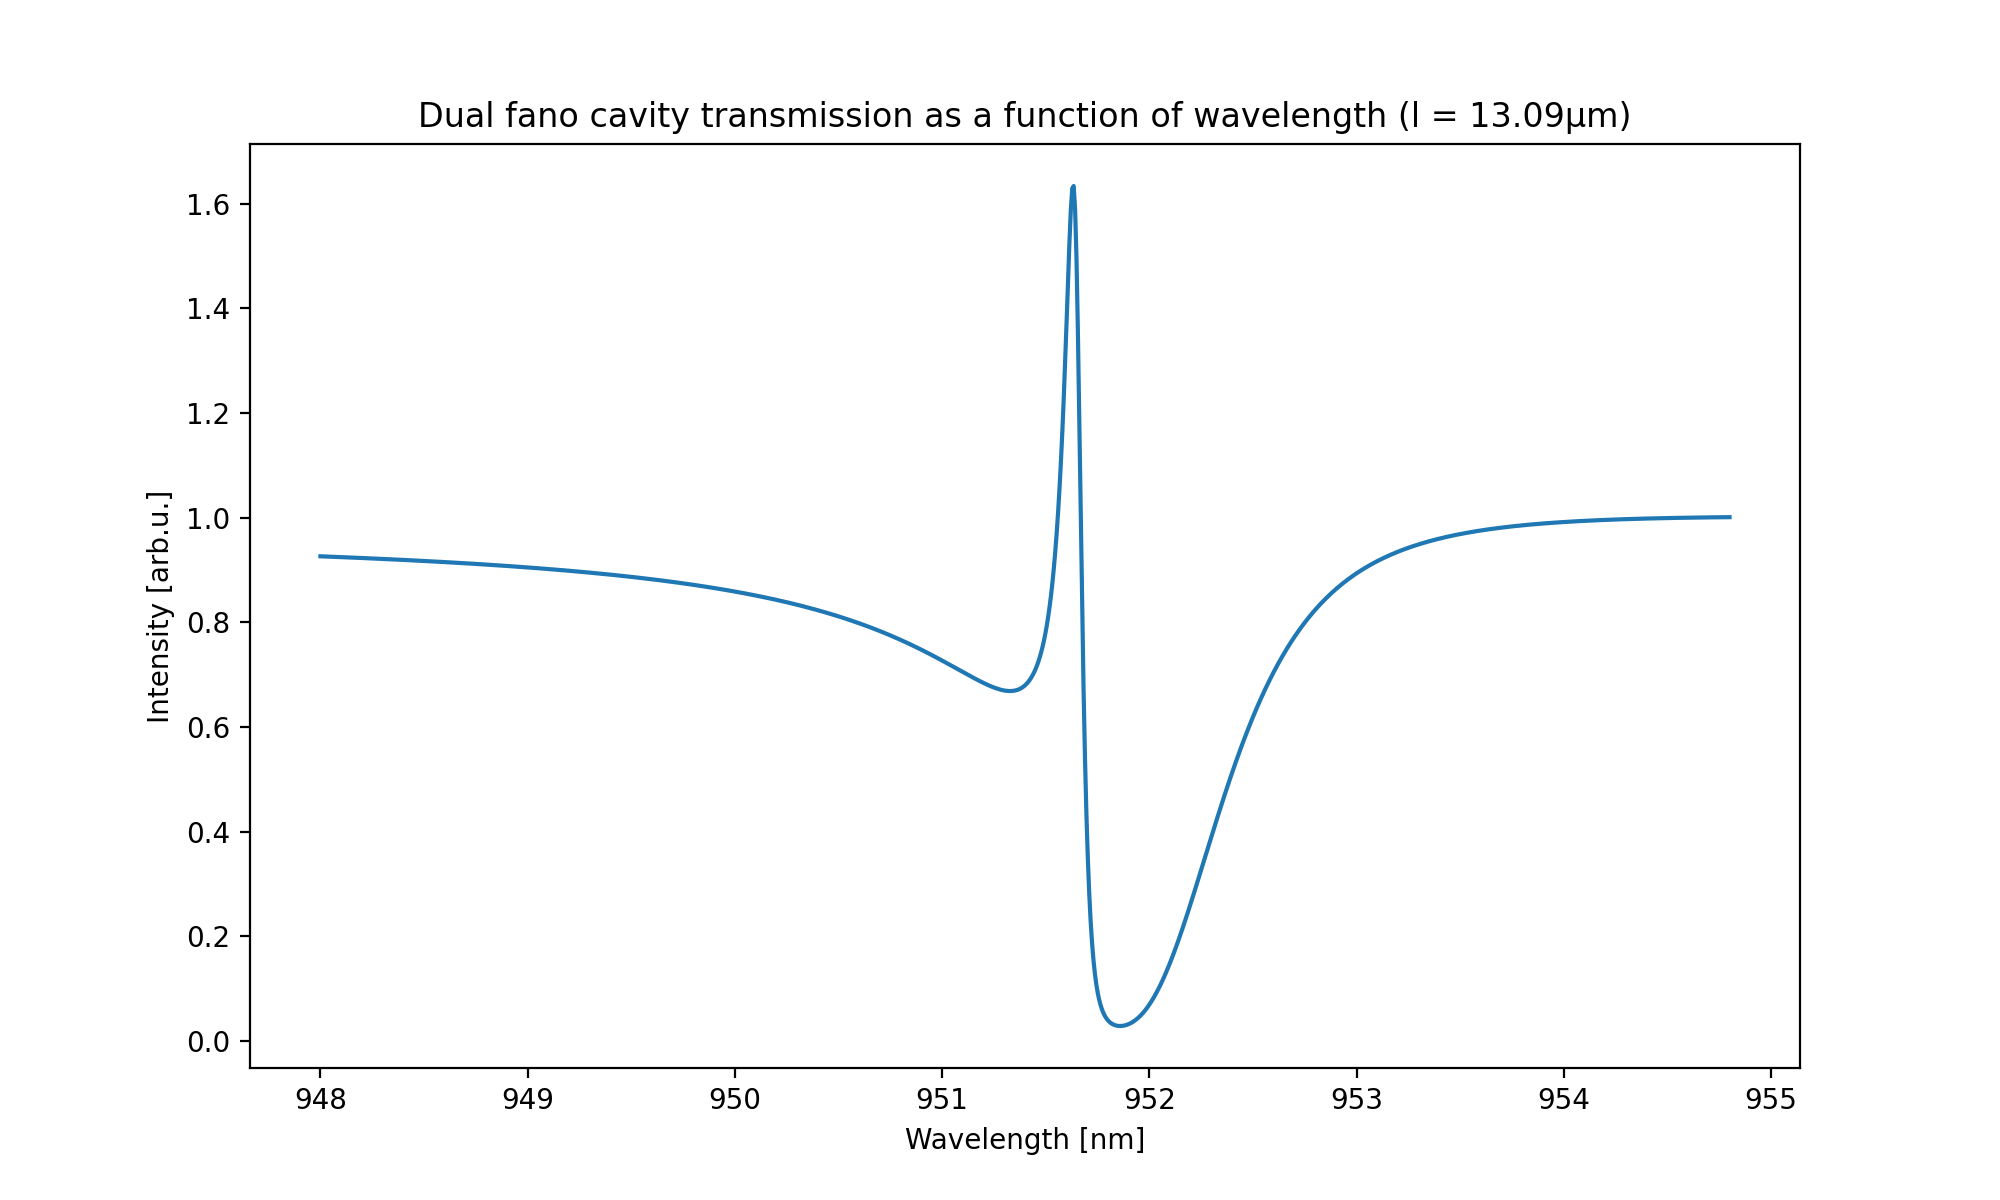
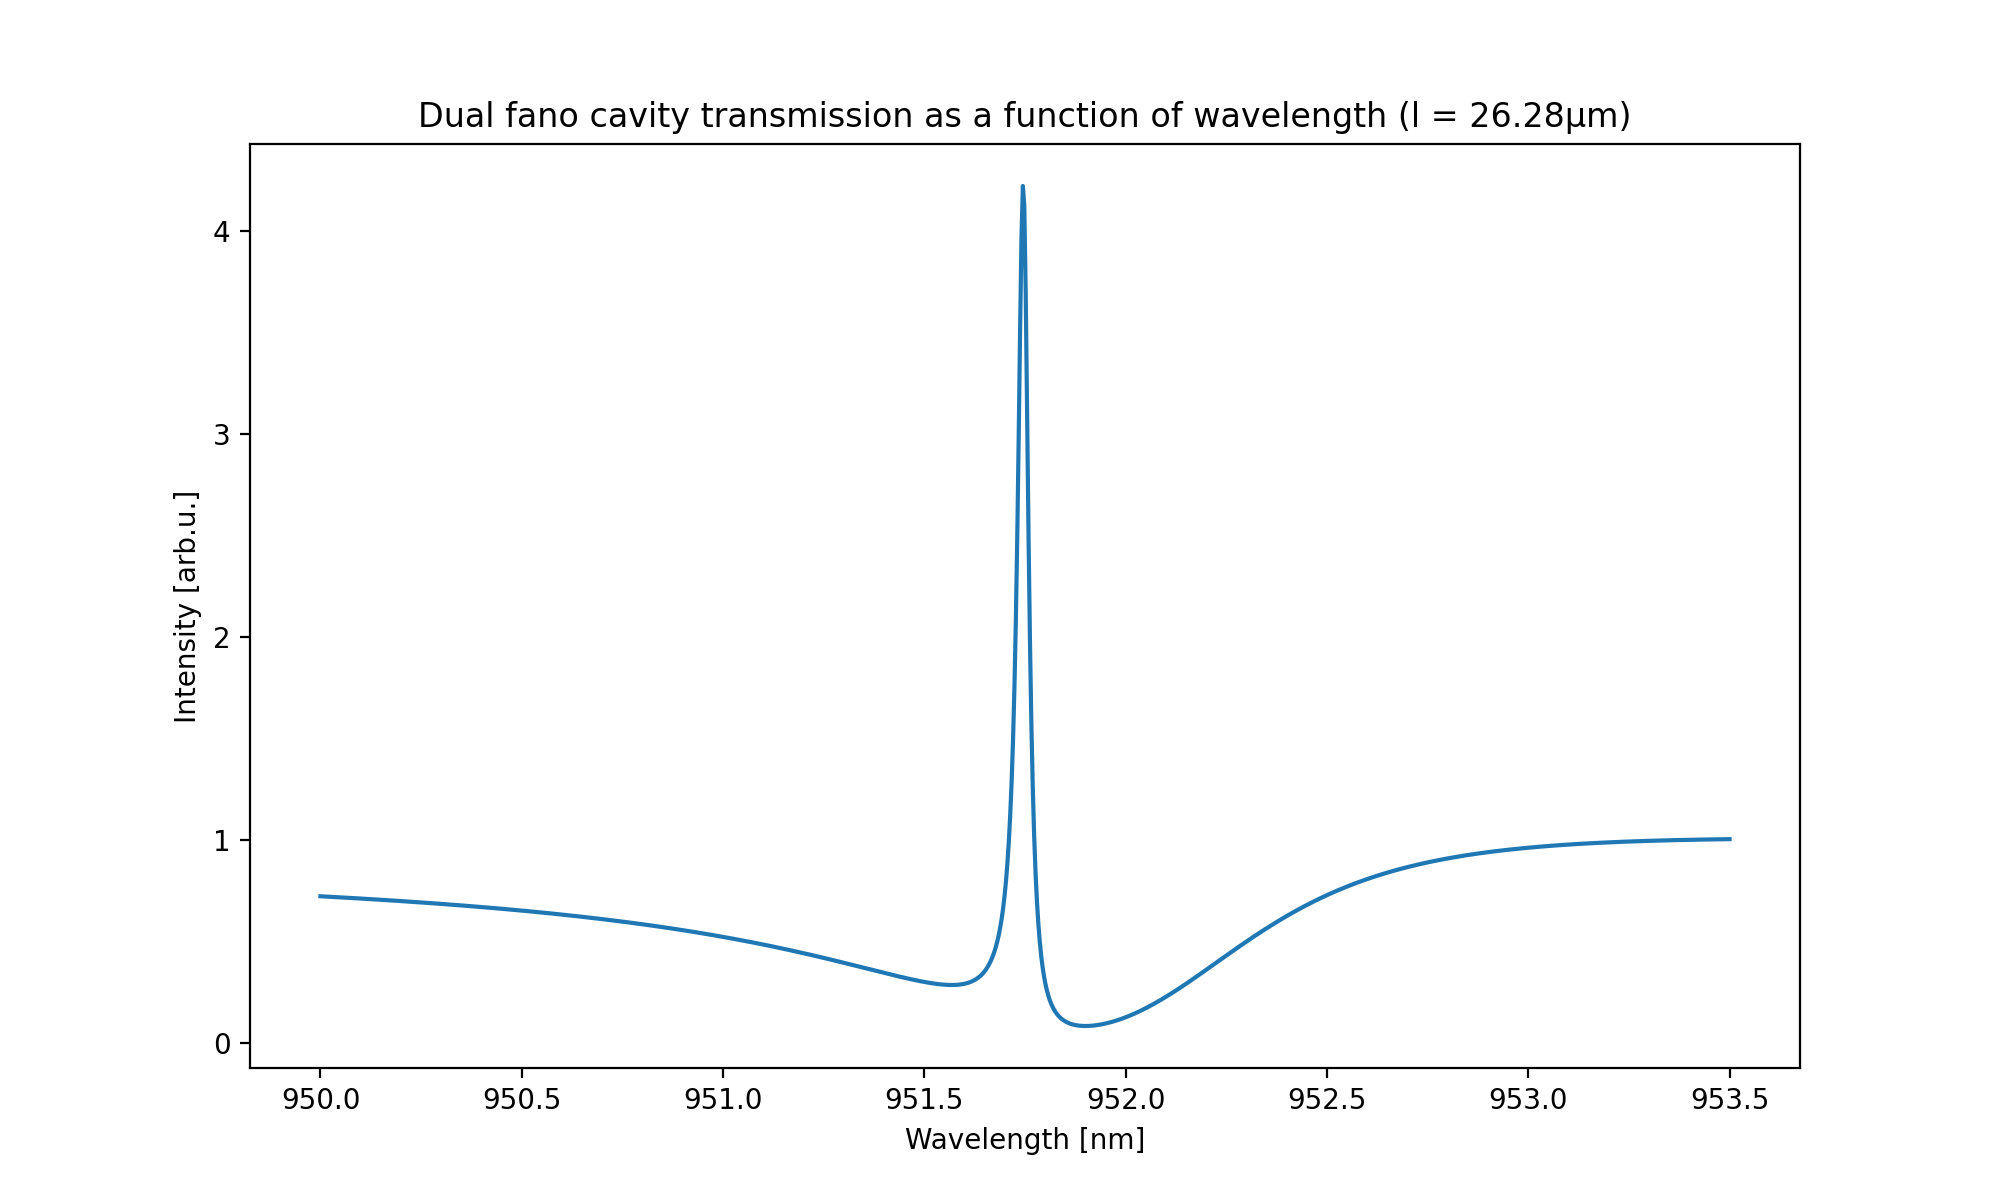
-

diff --git a/fano_theory.py b/fano_theory.py
@@ -12,9 +12,10 @@ M4 = fano("/Users/mikkelodeon/optomechanics/400um gratings/Data/M4/400_M4 trans.
 M5 = fano("/Users/mikkelodeon/optomechanics/400um gratings/Data/M5/400_M5 trans.txt")
 
 params1 = M3.lossy_fit([952,952,0.6,1,0.1])
-params2 = M5.lossy_fit([952,952,0.6,1,0.1])
-params2[1] = params2[1] 
-params2[0] = params2[0] 
+params2 = M3.lossy_fit([952,952,0.6,1,0.1])
+Δ = 0.03
+params2[1] = params2[1] + Δ
+params2[0] = params2[0] + Δ
 
 #params1 = [950, 950.3, 0.81, 0.48, 9e-7]
 #params2 = [949.8, 950, 0.81, 0.48, 9e-7]
@@ -28,7 +29,7 @@ params2[0] = params2[0]
 #grating1 = [950, 950, 0.81, 0.48, 9e-7]
 #grating2 = [950+Δ, 950+Δ, 0.81, 0.48, 9e-7]   
 
-λs_range = np.linspace(951.5,951.7,1000)
+λs_range = np.linspace(950,953,1000)
 
 def model(λ, λ0, λ1, td, γ, α): 
     k = 2*np.pi / λ
@@ -97,6 +98,34 @@ def resonant_cavity_length(params: list):
     for idx in peak_indices[0]:
         lengths.append(ls[idx])
     return lengths[0]
+
+def double_cavity_length(params1: list, params2: list):
+    λs = np.linspace(900, 1100, 10000) 
+
+    r1 = theoretical_reflection_values(params1)[1]
+    t1 = np.sqrt(model(λs, *params1))
+    r2 = theoretical_reflection_values(params2)[1]
+    t2 = np.sqrt(model(λs, *params2))
+
+    lengths = []
+    Ts = []
+
+    ls = np.linspace(1,1000,10000)
+
+    for l in ls:
+        tg1 = np.min(t1)
+        rg1 = np.max(r1)
+        tg2 = np.min(t2)
+        rg2 = np.max(r2)
+        λ = params1[0]
+        t = np.abs(tg1*tg2*np.exp(1j*(2*np.pi/λ)*l)/(1-rg1*rg2*np.exp(2j*(2*np.pi/λ)*l)))**2
+        Ts.append(t)
+
+    peak_indices = find_peaks(Ts)
+
+    for idx in peak_indices[0]:
+        lengths.append(ls[idx])
+    return lengths[0]
  
 def fano_cavity_transmission(params: list):
     reflection_values = theoretical_reflection_values(params)[1]
@@ -114,7 +143,7 @@ def fano_cavity_transmission(params: list):
     Ts = []
     for i in range(len(λs)):
         T = cavity_transmission(λs[i], reflection_values[i], transmission_values[i], length)
-        Ts.append(T)
+        Ts.append(float(T))
 
     return (λs,Ts)
 
@@ -127,21 +156,21 @@ def fano_cavity_transmission_plot(params: list):
     plt.ylabel("Intensity [arb.u.]")
     plt.show()
 
-def dual_fano_transmission(params1: list, params2: list, l: float):
+def dual_fano_transmission(params1: list, params2: list, length: float):
     
     reflection_values1 = theoretical_reflection_values(params1)[1]
     transmission_values1 = np.sqrt(model(λs_range, *params1))
     reflection_values2 = theoretical_reflection_values(params2)[1]
     transmission_values2 = np.sqrt(model(λs_range, *params2))
 
-    def cavity_transmission(λ, rg1, tg1, rg2, tg2, l):
-        T = np.abs(tg1*tg2*np.exp(1j*(2*np.pi/λ)*l)/(1-rg1*rg2*np.exp(2j*(2*np.pi/λ)*l)))**2
+    def cavity_transmission(λ, rg1, tg1, rg2, tg2, length):
+        T = np.abs(tg1*tg2*np.exp(1j*(2*np.pi/λ)*length)/(1-rg1*rg2*np.exp(2j*(2*np.pi/λ)*length)))**2
         return T 
     λs = np.linspace(λs_range.min(), λs_range.max(), len(reflection_values1))
     Ts = []
     for i in range(len(λs)):
-        T = cavity_transmission(λs[i], reflection_values1[i], transmission_values1[i], reflection_values2[i], transmission_values2[i], l)
-        Ts.append(T)
+        T = cavity_transmission(λs[i], reflection_values1[i], transmission_values1[i], reflection_values2[i], transmission_values2[i], length)
+        Ts.append(float(T))
 
     return (λs, Ts)
 
@@ -157,13 +186,12 @@ def dual_fano_transmission_plot(params1: list, params2: list, length: float):
 def detuning_plot(Δs: list): ## plots dual fano cavity transmission for different values for the detuning
     plt.figure(figsize=(10,6))
     grating1 = [950, 950, 0.81, 0.48, 9e-7]
-    length = resonant_cavity_length(grating1)
     for Δ in Δs:
-        grating2 = [950, 950+Δ, 0.81, 0.48, 9e-7]
-        λs, Ts =  dual_fano_transmission(grating1, grating2, length)
+        grating2 = [950+Δ, 950+Δ, 0.81, 0.48, 9e-7]
+        λs, Ts =  dual_fano_transmission(grating1, grating2)
         plt.plot(λs, Ts, label="Δ=%snm" %(Δ))
 
-    plt.title("Dual fano cavity transmission as a function of wavelength (l = %sμm)" % str(round(length,2)))
+    plt.title("Dual fano cavity transmission as a function of wavelength")
     plt.xlabel("Wavelength [nm]")
     plt.ylabel("Intensity [arb.u.]")
     plt.legend()
@@ -182,16 +210,17 @@ def cavity_length_plot(ls: list, params1: list, params2: list):
     plt.show() 
 
 def l_vs_λ_cmaps(params1: list, params2: list): 
-    Δs = 0.02
+    Δs = 0.1
     rows = 3
     columns = 3
     Δ_label = 0
     fig, ax = plt.subplots(rows,columns, figsize=(18,8))
     for i in range(rows):
         for j in range(columns):
-            params2[1] = params2[1] + Δs
-            Δ_label += Δs
-            ls = np.linspace(resonant_cavity_length(params1), resonant_cavity_length(params2), 20)
+            params2[1] = params2[1] - Δs
+            params2[0] = params2[0] - Δs
+            Δ_label -= Δs
+            ls = np.linspace(double_cavity_length(params1, params2), double_cavity_length(params2, params1), 20)
             Ts = []
             λs = 0
             for l in ls:
@@ -218,14 +247,16 @@ def l_vs_λ_cmaps(params1: list, params2: list):
     fig.subplots_adjust(right=0.8)
     cbar_ax = fig.add_axes([0.85, 0.15, 0.02, 0.7])
     fig.colorbar(im, cax=cbar_ax)
-    fig.text(0.5, 0.93, 'Positive detuning (λ1 > λ0)', ha='center', va='center', fontsize=16) 
+    fig.text(0.5, 0.93, 'Negative detuning', ha='center', va='center', fontsize=16) 
     fig.text(0.5, 0.06, 'Wavelength [nm]', ha='center', va='center', fontsize=10)
     fig.text(0.08, 0.5, 'Cavity length [μm]', ha='center', va='center', fontsize=10, rotation="vertical")
     plt.show()
 
-def double_fano_cmap(ls: list, params1: list, params2: list):
+def double_fano_cmap(params1: list, params2: list):
 
     plt.figure(figsize=(10,6))
+
+    ls = np.linspace(double_cavity_length(params1, params2), double_cavity_length(params2, params1),20)
     Ts = []
     λs = 0
     for l in ls:
@@ -254,24 +285,124 @@ def double_fano_cmap(ls: list, params1: list, params2: list):
     plt.colorbar()
     plt.show()
 
+def line_width_double(params1: list, params2: list): ## change this !
+    λs, Ts =  dual_fano_transmission(params1, params2)
 
-Δs = np.array([0.01, 0.04, 0.08, 0.12, 0.20, 0.30, 0.40]) # detuning in nm    
-ls = np.linspace(resonant_cavity_length(params1), resonant_cavity_length(params2),20)
+    initial_guess = [951.748, 1, 0.1, 1] #[951.6, 951.6, 0.7, 0.05, 1e-7]
+
+    def lorentzian(x, x0, A, γ, t):
+        fano = 1 + ((x-x0) / (γ * (1 - t * (x-x0) / γ)))**2 
+        return A/fano 
+
+    popt, pcov = curve_fit(lorentzian, λs, Ts, p0=initial_guess, maxfev=10000)
+
+    #print("popt: ", popt)
+
+    FWHM = 2*popt[2]
+
+    #print("length: ", length)
+    #print("FWHM: ", round(np.abs(FWHM)*1e3,2), "pm")
+
+    #plt.figure(figsize=(10,6))
+    #plt.plot(λs, lorentzian(λs, *popt))
+    #plt.plot(λs, Ts, 'r.')
+    #plt.show()
+
+    return FWHM
+
+def line_width_single(params1: list): ## change this !
+    λs, Ts =  fano_cavity_transmission(params1)
+
+    initial_guess = [951.748, 1, 0.1, 1] #[951.6, 951.6, 0.7, 0.05, 1e-7]
+
+    def lorentzian(x, x0, A, γ, t):
+        fano = 1 + ((x-x0) / (γ * (1 - t * (x-x0) / γ)))**2 
+        return A/fano 
+
+    popt, pcov = curve_fit(lorentzian, λs, Ts, p0=initial_guess, maxfev=10000)
+
+    print("popt: ", popt)
+
+    FWHM = 2*popt[2]
+
+    print("length: ", length)
+    print("FWHM: ", FWHM)
+
+    plt.figure(figsize=(10,6))
+    plt.plot(λs, lorentzian(λs, *popt))
+    plt.plot(λs, Ts, 'r.')
+    plt.show()
+
+    return FWHM
+
+def line_width_comparison(params1: list, params2: list): 
+    λ1, T1 =  fano_cavity_transmission(params1)
+    λ2, T2 = dual_fano_transmission(params1, params2)
+
+    initial_guess = [951.79, 1, 0.1, 1] #[951.6, 951.6, 0.7, 0.05, 1e-7]
+
+    def lorentzian(x, x0, A, γ, t):
+        fano = 1 + ((x-x0) / (γ * (1 - t * (x-x0) / γ)))**2 
+        return A/fano 
+
+    popt1, pcov1 = curve_fit(lorentzian, λ1, T1, p0=initial_guess, maxfev=10000)
+    popt2, pcov2 = curve_fit(lorentzian, λ2, T2, p0=initial_guess, maxfev=10000)
+
+    FWHM_single = 2*popt1[2]
+    FWHM_double = 2*popt2[2]
+
+    plt.figure(figsize=(10,6))
+    plt.title("Double vs single fano comparison")
+    plt.plot(λ1, T1, '.', color="cornflowerblue", alpha=0.5, label="single fano simulation (M3)")
+    plt.plot(λ2, T2, 'g.', alpha=0.5, label="double fano simulation (M3/M3)")
+    plt.plot(λ1, lorentzian(λ1, *popt1), label="single fano fit, FWHM: %spm" %(str(round(FWHM_single*1e3,2))), color="orange")
+    plt.plot(λ2, lorentzian(λ2, *popt2), label="double fano fit, FWHM: %spm" %(str(round(FWHM_double*1e3,2))))
+    plt.xlabel("Wavelength [nm]")
+    plt.ylabel("Intensity [arb. u.]")
+    plt.legend()
+    plt.show()
+
+    return FWHM
+
+Δs = np.array([0.01, 0.04, 0.08, 0.12, 0.20, 0.30]) # detuning in nm    
+
 length = resonant_cavity_length(params1)
+double_length = double_cavity_length(params1, params2)
+ls = np.linspace(0,100,10000)
+length = double_cavity_length(params1, params2)
 
+
+#plt.figure(figsize=(10,6))
 #detuning_plot(Δs)
 #cavity_length_plot(ls, params1, params2)
 #l_vs_λ_cmaps(params1,params2)
-double_fano_cmap(ls, params1, params2)
+#double_fano_cmap(params1, params2)
 #λs1, Ts1 =  fano_cavity_transmission(params1)
-#λs2, Ts2 =  dual_fano_transmission(params1, params2, length)
-#plt.figure(figsize=(10,6))
-#plt.plot(λs1, Ts1, label="Reg. Fano")
-#plt.plot(λs2, Ts2, label="Double Fano")
+#λs2, Ts2 =  dual_fano_transmission(params1, params2)
+#plt.plot(λs1, Ts1, label="Reg. Fano (cavity length: %s μm)" %(str(round(length,2))))
+#plt.plot(λs2, Ts2, "--", label="Double Fano (cavity length: %s μm)" %(str(round(double_length,2))))
 #plt.legend()
 #plt.show()
-#fano_cavity_transmission_plot(params2)
-#dual_fano_transmission_plot(params1, params2, length)
+#fano_cavity_transmission_plot(params1)
+#dual_fano_transmission_plot(params1, params2)
+#line_width_double(params1, params2)
+#line_width_single(params1)
+#line_width_comparison(params1, params2)
+#print(double_cavity_length(params1, params2))
+#print(double_cavity_length(params2, params1))
 
+#Δs = np.linspace(0,0.35,50)
+
+#lw = []
+#
+#for Δ in Δs:
+#    params2[0] += Δ
+#    params2[1] += Δ
+#    fwhm = line_width_double(params1, params2)
+#   lw.append(fwhm)
+
+#plt.figure(figsize=(10,6))
+#plt.plot(Δs, lw)
+#plt.show()
 
 

diff --git a/cavity_linewidth.py b/cavity_linewidth.py
@@ -2,17 +2,17 @@ import numpy as np
 import matplotlib.pyplot as plt
 
 ## resonance wavelength [nm -> m]
-λres = 951.8e-9
+λres = 951.6e-9
 ## length of cavity [μm -> m]
 l = np.linspace(5,12000,1000000)*1e-6
 ## losses in cavity
-L = 0.12
+L = 0.10
 ## width of guided mode resonance [nm -> m]
-γλ = 0.483*1e-9
+γλ = 0.482*1e-9
 ## direct (off-resonance) reflectivity
-rd = np.sqrt(0.38)
+rd = np.sqrt(1 - 0.814)
 ## Grating transmission at resonance
-Tg = 0.024
+Tg = 0.054
 ## Broadband mirror transmission at resonance 
 Tm = 0.04
 
@@ -27,7 +27,7 @@ def lw_fano(l: int, λres: float, L: float, γλ: float, rd: float, Tg: float, T
     return δγ
 
 #lengths = np.array([823,724,647,604,566,453,394,201,162,92,81,22,10])*1e-6 # lengths in m
-lengths = np.array([13.08])*1e-6
+lengths = np.array([26.077])*1e-6
 for length in lengths:
     linewidth = 2*lw_fano(length,λres,L,γλ,rd,Tg,Tm)
     print("length of fano cavity: ", round(length*1e6,1), "μm", " -> ", "theoretical linewidth: ", round(linewidth*1e12,1), "pm")
